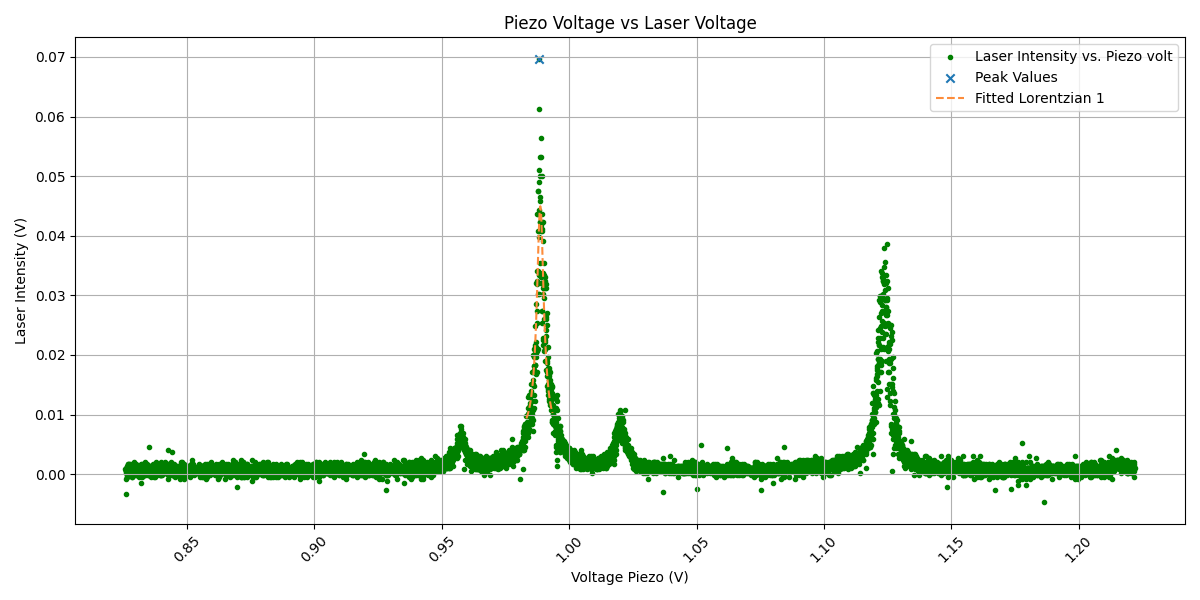
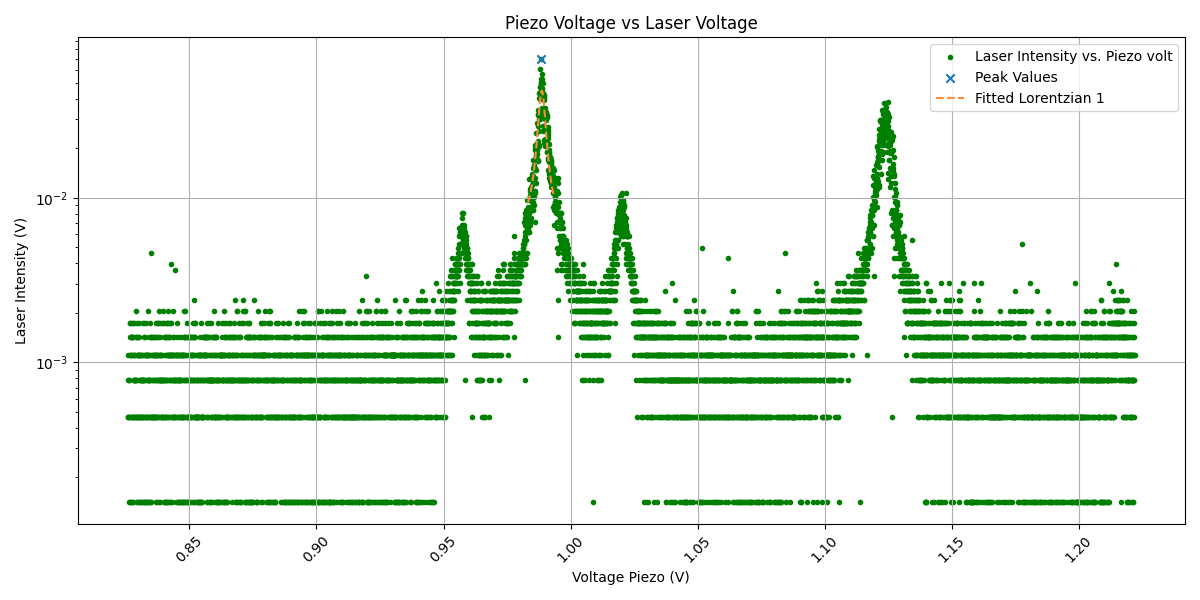
log plots

diff --git a/finesse.py b/finesse.py
@@ -83,7 +83,7 @@ with open(write_file_name, "w") as file:
             file.write(f'A = {a_} +/- {da_} V\n')
             file.write(f'x0 = {x0_} +/- {dx0_} V\n')
             file.write(f'gamma = {g_} +/- {dg_} V\n')
-            file.write(f'off = {o_} +/- {do_} V\n')
+            file.write(f'off = {o_} +/- {do_} V\n\n')
 
         fp.plot_piezo_laser_fit_leonardi(volt_piezo, volt_laser, file_name=f'data_non_confocal/figures/finesse/{figure_name}_{title}.png', A=A_list,
                                          x0=x0_list, gamma=gamma_list, off=off_list, xpeaks=xpeaks, ypeaks=ypeaks, ind_range=ind_range, save=True)
